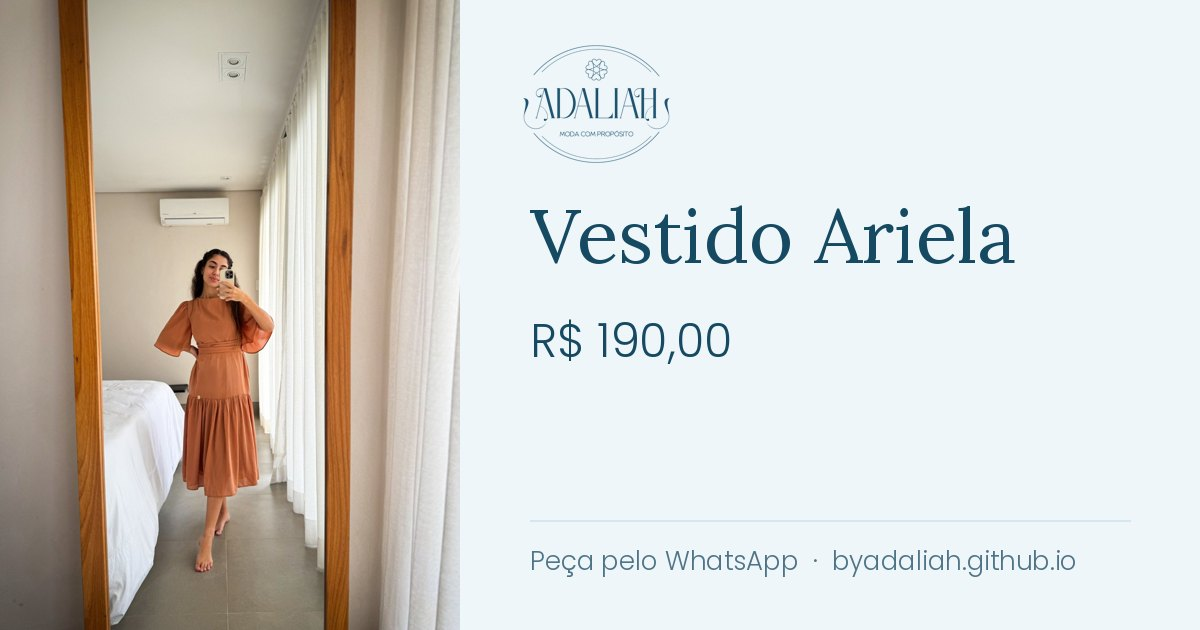
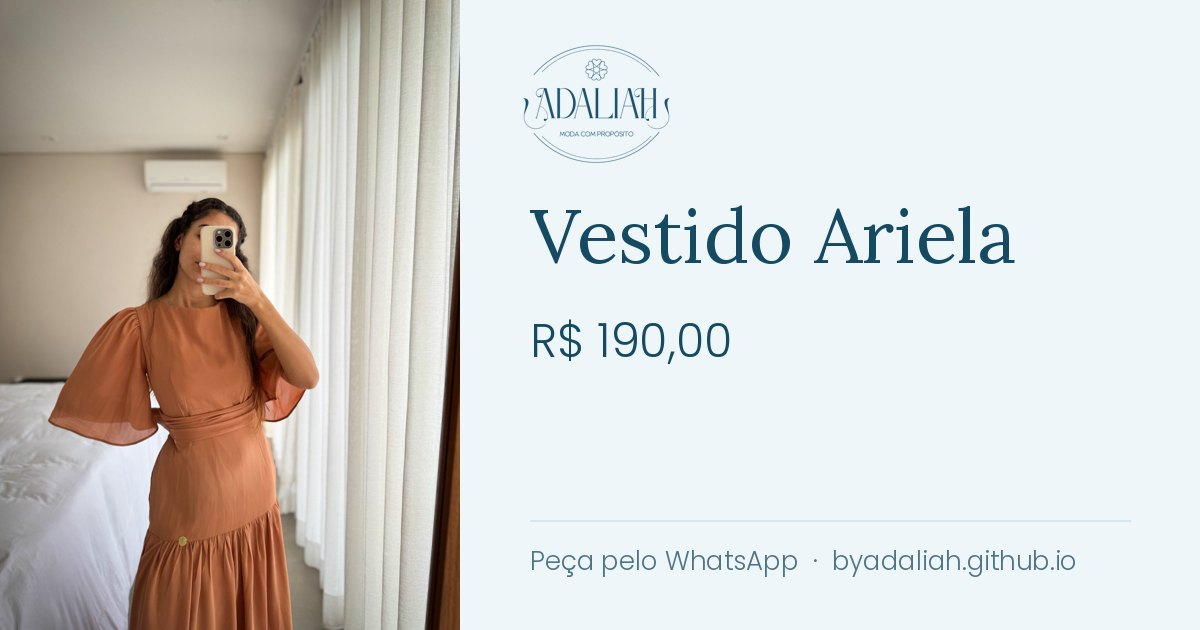
Vestido Ariela: foto 2 como capa
Claude-Session: https://claude.ai/code/session_01F19ppFsabnykYHd1ao5Jv1

Changed region(s): [[0.0, 0.0, 0.4008, 1.0], [0.185, 0.0905, 0.2158, 0.1206]]

diff --git a/index.html b/index.html
@@ -680,7 +680,7 @@ const PRODUTOS = [
   { nome: "Vestido Ariela", slug: "ariela", secao: "disponivel", preco: "R$ 190,00",
     descricao: "Leve e fluido, perfeito para os dias quentes. As mangas amplas esvoaçam a cada movimento, a faixa franzida marca a cintura e a saia midi termina em um babado delicado.",
     detalhes: ["Tecido musseline", "Zíper invisível"],
-    fotos: ["fotos/ariela-1.jpg", "fotos/ariela-2.jpg"], tamanhos: ["P", "M"] },
+    fotos: ["fotos/ariela-2.jpg", "fotos/ariela-1.jpg"], tamanhos: ["P", "M"] },
   { nome: "Vestido Atalia", slug: "atalia", secao: "disponivel", preco: "R$ 162,00",
     descricao: "Romântico na medida certa. As mangas bufantes trazem delicadeza, a cintura marcada valoriza a silhueta e a saia midi godê tem um caimento lindo em movimento.",
     detalhes: ["Tecido Crepe Duna", "Zíper invisível"],
